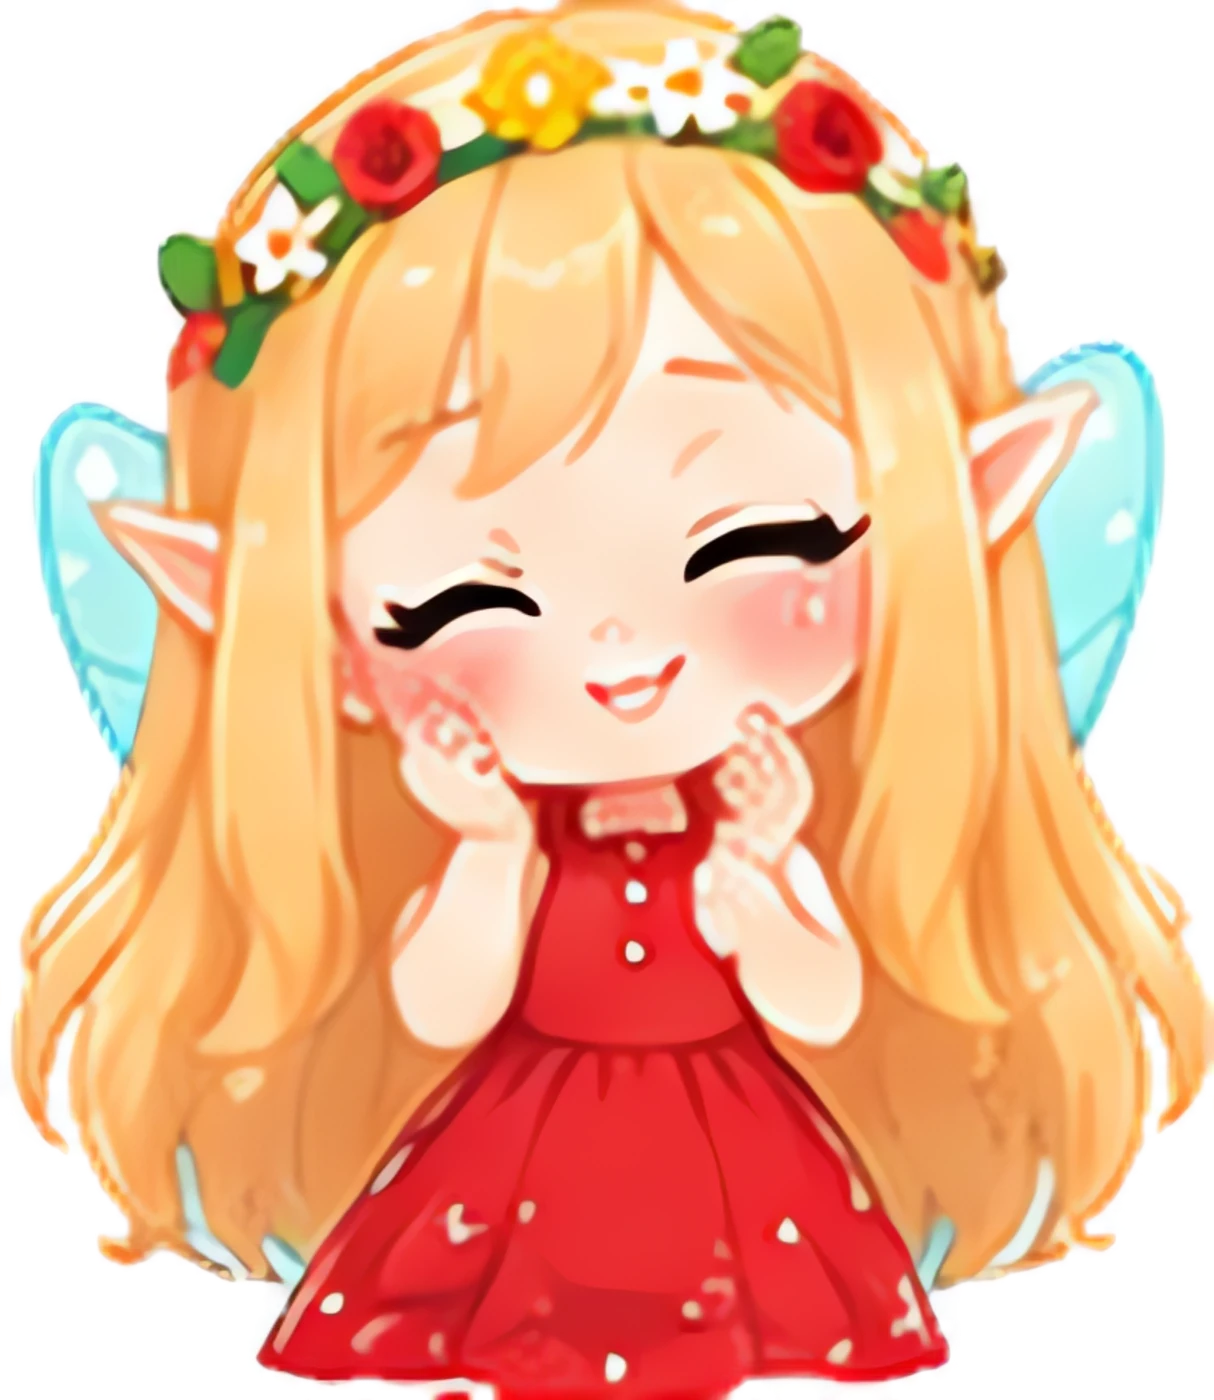
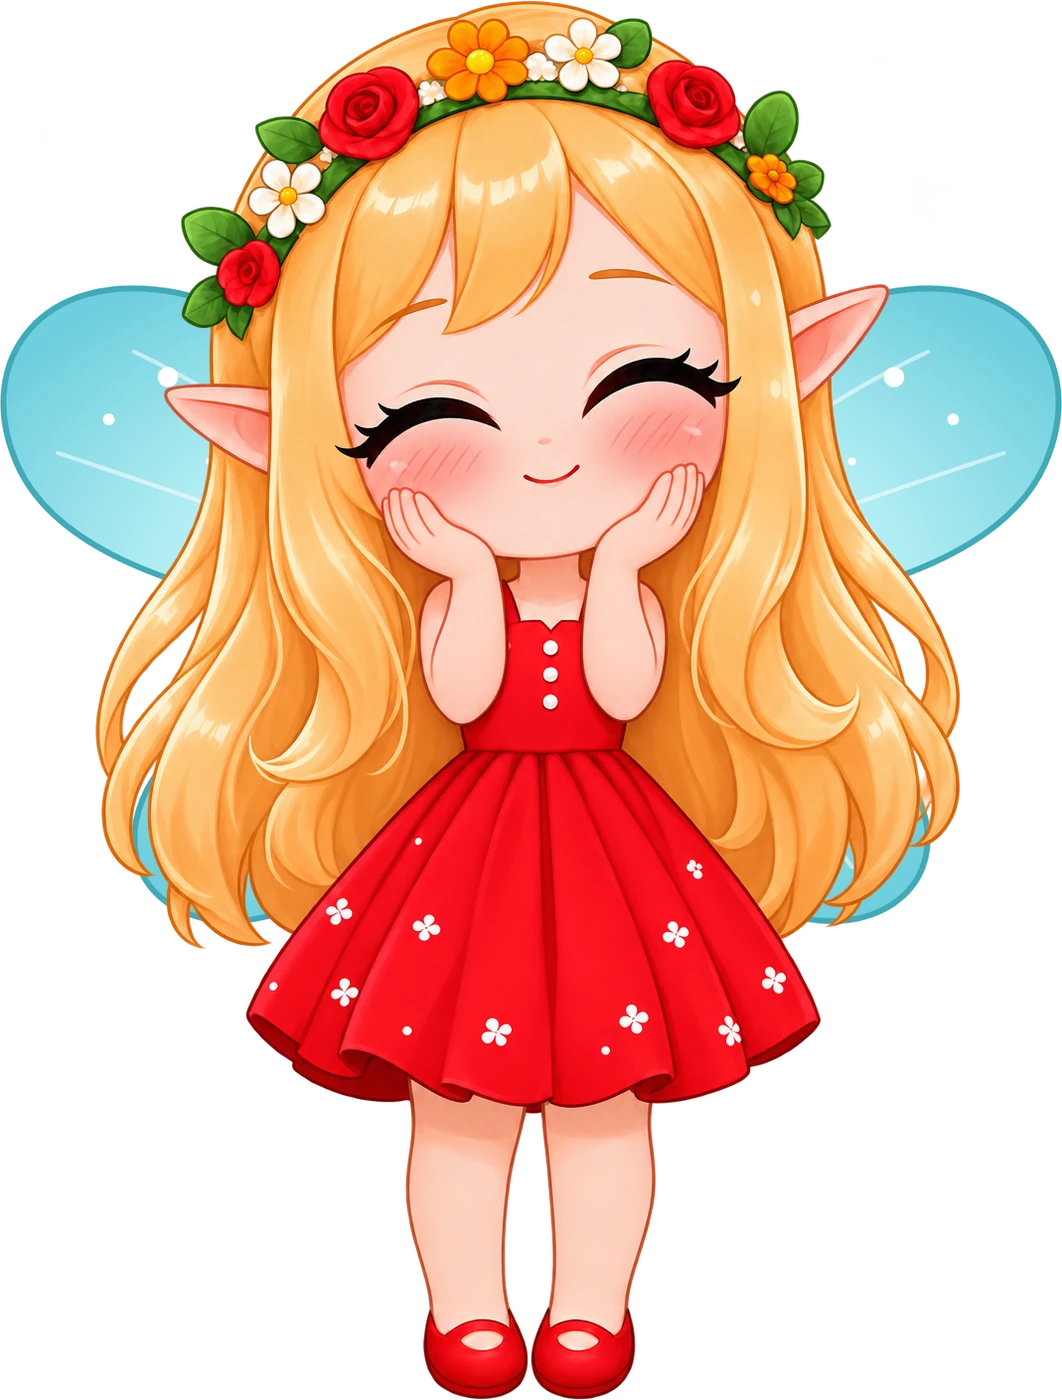
Titli: swap in HD ChatGPT poses with wings behind
Agastya's 20 one-pose-per-picture ChatGPT drawings replace the soft poses cut from
character sheets (src/assets/fairy, 1400 px) and the 300 px Android pictures
(now 512 px). Teal wings are drawn behind each pose; sleep has none. The point
pose is mirrored and padded so the fingertip stays on its left edge (TIP_Y 0.38),
crown flower spots are re-measured, and the sleepy z's sit above her head.

Claude-Session: https://claude.ai/code/session_01AXvcWiYzzZBRt7q8z4hYn7

diff --git a/src/lib/asha/crown.ts b/src/lib/asha/crown.ts
@@ -33,24 +33,24 @@ export const SLOTS = [0, -0.5, 0.5, -0.88, 0.88, -0.25, 0.25];
 export const CROWNS: Partial<
   Record<PixieMood, { x: number; y: number; span: number; tilt: number; w: number; h: number }>
 > = {
-  idle: { x: 0.47, y: 0.06, span: 0.25, tilt: 0, w: 699, h: 921 },
-  happy: { x: 0.55, y: 0.07, span: 0.22, tilt: 0, w: 576, h: 681 },
-  talk: { x: 0.53, y: 0.065, span: 0.2, tilt: 0, w: 579, h: 699 },
-  thinking: { x: 0.53, y: 0.07, span: 0.2, tilt: 0, w: 582, h: 681 },
-  asking: { x: 0.5, y: 0.08, span: 0.2, tilt: 0, w: 579, h: 660 },
-  sad: { x: 0.53, y: 0.06, span: 0.2, tilt: 0, w: 582, h: 657 },
-  wave: { x: 0.47, y: 0.05, span: 0.25, tilt: 0, w: 504, h: 678 },
-  jump: { x: 0.45, y: 0.055, span: 0.24, tilt: 0, w: 498, h: 600 },
-  point: { x: 0.53, y: 0.05, span: 0.23, tilt: 0, w: 528, h: 657 },
-  fly: { x: 0.43, y: 0.07, span: 0.23, tilt: 0, w: 561, h: 645 },
-  sit: { x: 0.45, y: 0.08, span: 0.26, tilt: 0, w: 486, h: 549 },
-  stretch: { x: 0.46, y: 0.07, span: 0.26, tilt: 0, w: 318, h: 363 },
-  blush: { x: 0.46, y: 0.07, span: 0.3, tilt: 0, w: 372, h: 429 },
-  tired: { x: 0.45, y: 0.11, span: 0.28, tilt: 0, w: 321, h: 378 },
+  idle: { x: 0.5, y: 0.046, span: 0.22, tilt: 0, w: 1066, h: 1400 },
+  happy: { x: 0.5, y: 0.048, span: 0.22, tilt: 0, w: 1050, h: 1400 },
+  talk: { x: 0.5, y: 0.046, span: 0.22, tilt: 0, w: 1064, h: 1400 },
+  thinking: { x: 0.5, y: 0.046, span: 0.22, tilt: 0, w: 1065, h: 1400 },
+  asking: { x: 0.5, y: 0.045, span: 0.22, tilt: 0, w: 1066, h: 1400 },
+  sad: { x: 0.5, y: 0.049, span: 0.22, tilt: 0, w: 1057, h: 1400 },
+  wave: { x: 0.5, y: 0.047, span: 0.22, tilt: 0, w: 1062, h: 1400 },
+  jump: { x: 0.51, y: 0.046, span: 0.23, tilt: 0, w: 1050, h: 1400 },
+  point: { x: 0.43, y: 0.046, span: 0.19, tilt: 0, w: 1120, h: 1400 },
+  fly: { x: 0.6, y: 0.1, span: 0.2, tilt: 10, w: 1316, h: 1400 },
+  sit: { x: 0.48, y: 0.059, span: 0.21, tilt: 0, w: 1317, h: 1400 },
+  stretch: { x: 0.5, y: 0.041, span: 0.22, tilt: 0, w: 1071, h: 1400 },
+  blush: { x: 0.5, y: 0.046, span: 0.22, tilt: 0, w: 1062, h: 1400 },
+  tired: { x: 0.5, y: 0.047, span: 0.22, tilt: 0, w: 1062, h: 1400 },
   wakeup: { x: 0.38, y: 0.07, span: 0.24, tilt: 0, w: 294, h: 342 },
-  flower: { x: 0.45, y: 0.06, span: 0.23, tilt: 0, w: 285, h: 351 },
-  book: { x: 0.48, y: 0.13, span: 0.23, tilt: 0, w: 324, h: 354 },
-  bag: { x: 0.47, y: 0.06, span: 0.23, tilt: 0, w: 267, h: 369 },
+  flower: { x: 0.5, y: 0.047, span: 0.22, tilt: 0, w: 1061, h: 1400 },
+  book: { x: 0.48, y: 0.066, span: 0.22, tilt: 0, w: 1237, h: 1400 },
+  bag: { x: 0.51, y: 0.047, span: 0.23, tilt: 0, w: 1054, h: 1400 },
   butterfly: { x: 0.33, y: 0.11, span: 0.2, tilt: -35, w: 279, h: 366 },
   flyside: { x: 0.5, y: 0.08, span: 0.15, tilt: 20, w: 402, h: 489 },
   flyup: { x: 0.45, y: 0.06, span: 0.2, tilt: -20, w: 507, h: 522 },

diff --git a/src/components/asha/pixie.tsx b/src/components/asha/pixie.tsx
@@ -30,7 +30,7 @@ import bag from "@/assets/fairy/bag.webp";
 
 /**
  * Asha's fairy: a chibi girl with big teal eyes, long golden hair, a flower crown, a red dress and
- * teal butterfly wings, one picture per mood or pose (cut from Agastya's character sheets): waving hello,
+ * teal butterfly wings, one picture per mood or pose (Agastya's ChatGPT poses, wings added behind): waving hello,
  * flying, pointing at a reminder, jumping for joy, sitting down to rest, stretching in the morning, tired at bedtime,
  * blushing, bringing a flower, reading, chasing a butterfly, carrying the family's love notes in her bag. Sleepy or shy she
  * hides under a big leaf; asleep she lies on the floor under it. Motion (bobbing, leaning toward a tap,
@@ -141,9 +141,9 @@ function Extras({ mood }: { mood: PixieMood }) {
     return (
       <svg viewBox="0 0 160 100" className="pixie-z pointer-events-none absolute inset-0 h-full w-full overflow-visible" aria-hidden>
         <g fill="#8fb9c0" fontFamily="Fraunces, serif" fontWeight="700">
-          <text x="70" y="22" fontSize="14">z</text>
-          <text x="82" y="10" fontSize="11">z</text>
-          <text x="92" y="0" fontSize="8">z</text>
+          <text x="112" y="-22" fontSize="14">z</text>
+          <text x="124" y="-34" fontSize="11">z</text>
+          <text x="134" y="-44" fontSize="8">z</text>
         </g>
       </svg>
     );

diff --git a/src/components/asha/fairy-guide.tsx b/src/components/asha/fairy-guide.tsx
@@ -243,7 +243,7 @@ Answer simply and kindly, and say where to press.`;
 // her size on the tour, and where her pointing fingertip is in the "point" picture (left edge, a third of the way down)
 const FW = 168;
 const FH = 210;
-const TIP_Y = 0.32;
+const TIP_Y = 0.38;
 
 function findTarget(sel: string[] | null) {
   if (!sel) return null;

diff --git a/src/components/asha/roam.tsx b/src/components/asha/roam.tsx
@@ -77,7 +77,7 @@ const CURIOUS = (x: string): Localized[] => [
 
 const FW = 136;
 const FH = 170;
-const TIP_Y = 0.32;
+const TIP_Y = 0.38;
 
 function visible(el: Element) {
   const r = el.getBoundingClientRect();
